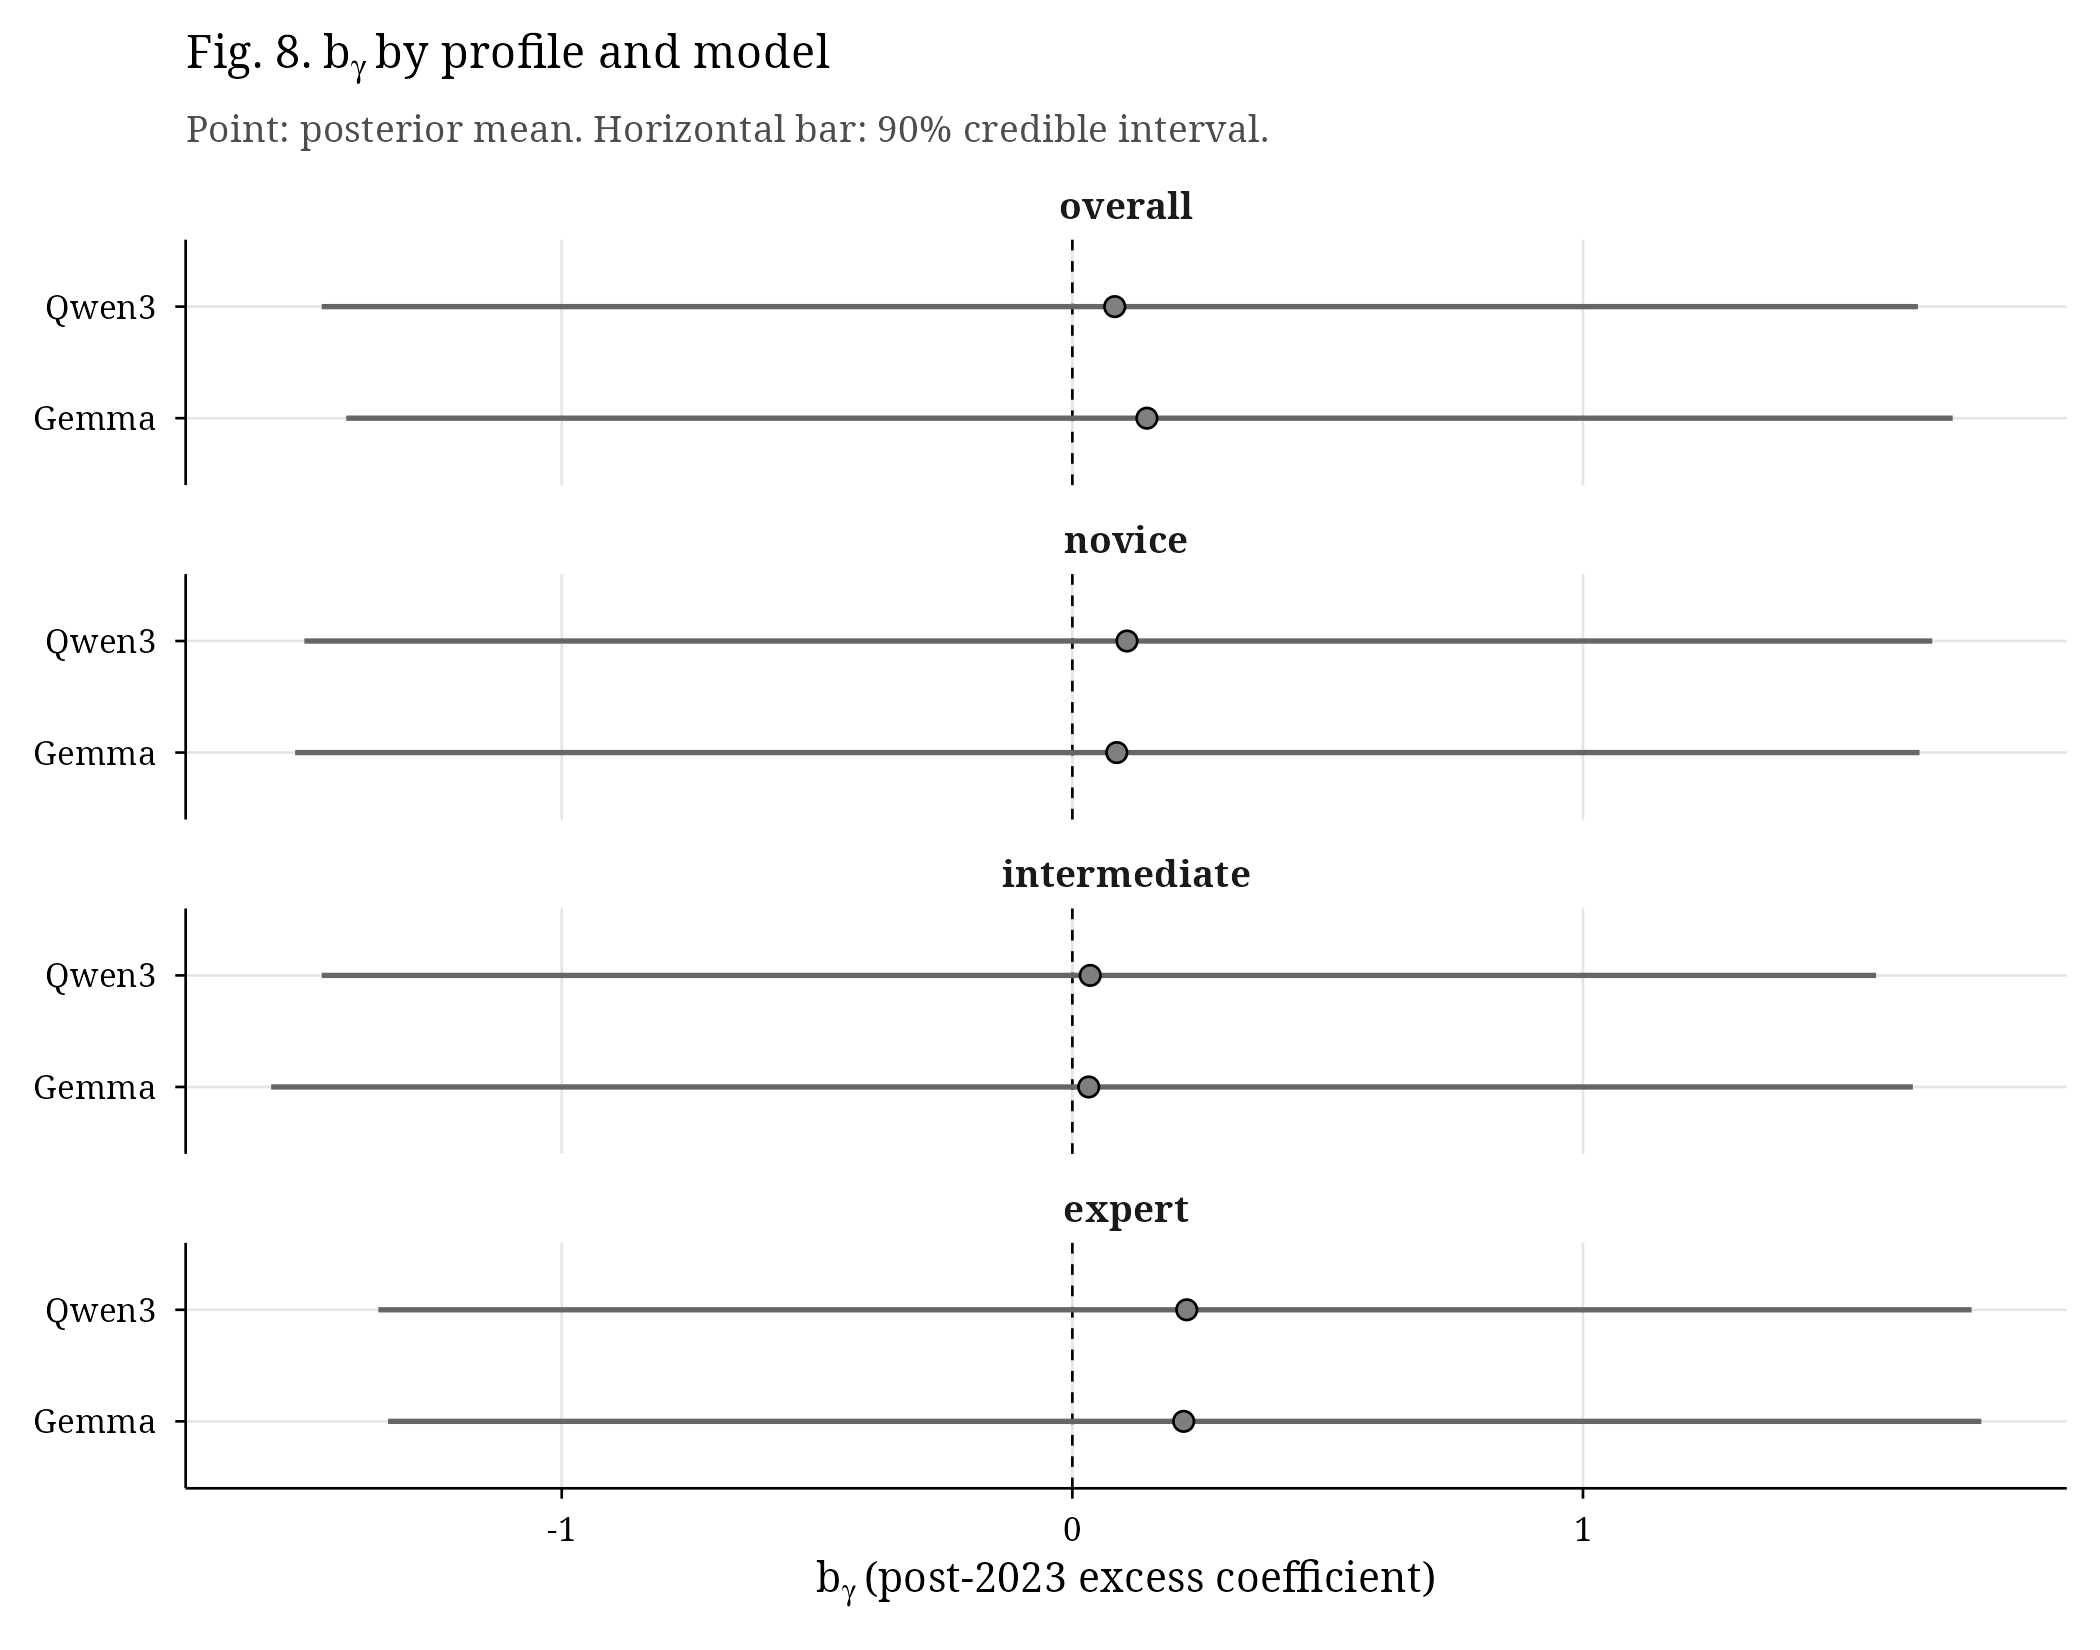
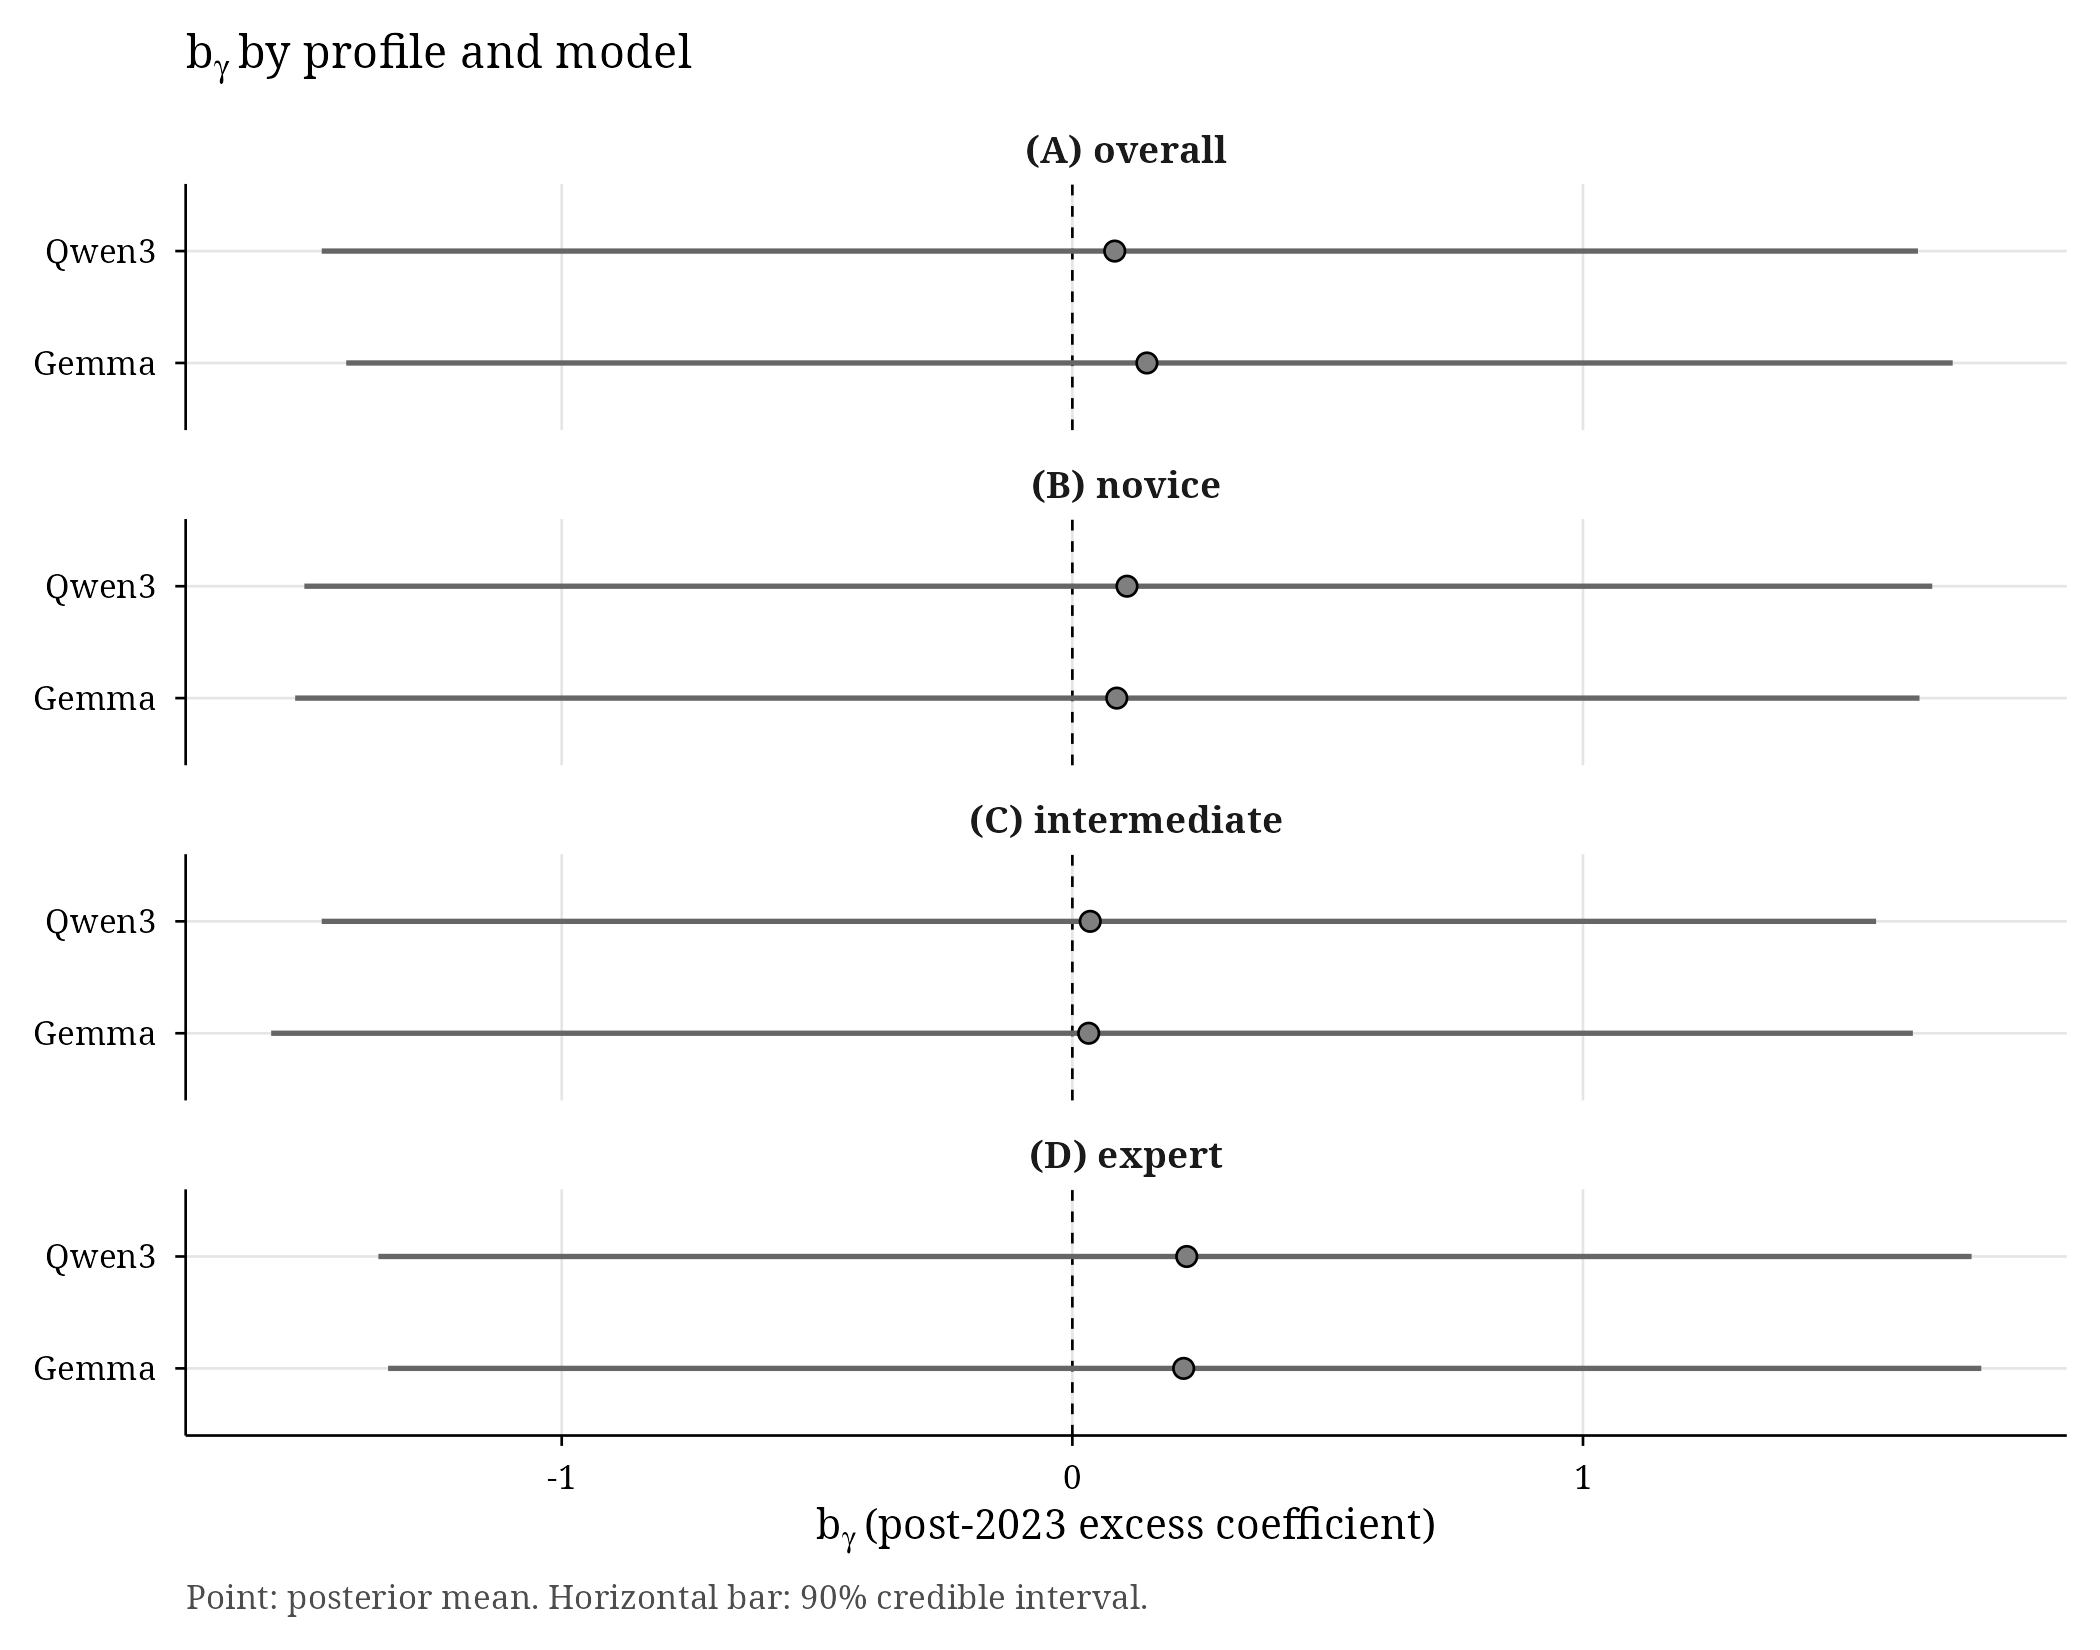
Figures for main text restructuring

diff --git a/docs/main_text_figures.md b/docs/main_text_figures.md
@@ -1,4 +1,4 @@
-# Main Text Figures — Proposed Selection and Order
+# Main Text Figures — Selection, Results, and Order
 
 Figures are listed in the order they would appear in the paper,
 following the structure: Methods (3.3) -> Results (4).
@@ -15,8 +15,12 @@ Generated by `R/09_main_text_figures.R` in greyscale academic style (300 DPI).
 ribbons give the reader an immediate visual sense of which methods are growing,
 declining, or stable before any model results are introduced.
 
-**Why main text:** Orients the reader to the data before showing model output.
-Essential for building intuition about the scale and heterogeneity of the corpus.
+**Results:** Strong heterogeneity across the top 15 methods. Several methods show
+steep post-2020 growth (Feedforward and Recurrent Neural Networks, Automated
+Content Classification, K-Means Clustering), while others plateau or decline
+(Geometric Morphometrics, Multivariate Statistical Analysis). The dashed 2023
+boundary does not mark a visible inflection in the raw data — any post-LLM
+effect on the literature side is too subtle to detect without modelling.
 
 ![Fig. 1](../data/output/figures/main_text/fig1_raw_counts.png)
 
@@ -30,8 +34,11 @@ Essential for building intuition about the scale and heterogeneity of the corpus
 and sigma_gamma (post-LLM shift variation). sigma_gamma credibly above zero is
 the global-level answer to "did methods diverge unevenly after 2023?"
 
-**Why main text:** This is the single most important diagnostic for the paper's
-central empirical claim. It directly answers the question posed in Section 2.
+**Results:** sigma_beta = 0.288 [90% CI: 0.248, 0.330] — substantial heterogeneity
+in baseline growth rates across L3 methods. sigma_gamma = 0.110 [90% CI: 0.010,
+0.222] — the entire posterior mass lies above zero, confirming that
+post-2023 shifts are unevenly distributed across methods. The effect is roughly
+one-third the magnitude of baseline trend variation.
 
 ![Fig. 2](../data/output/figures/main_text/fig2_sigma_posteriors.png)
 
@@ -43,12 +50,14 @@ central empirical claim. It directly answers the question posed in Section 2.
 
 **What it shows:** Horizontal bar chart comparing method shares across the 24 L2
 categories for three sources: pre-2023 literature, post-2023 literature, and
-LLM recommendations (Qwen3). Immediately shows which domains LLMs over- and
-under-represent relative to the published record.
+LLM recommendations (Qwen3).
 
-**Why main text:** Bridges the two streams (bibliometric and experiment). Gives
-the reader a concrete, intuitive picture of the LLM recommendation profile
-before the formal tests.
+**Results:** LLM recommendations dramatically over-represent a handful of L2
+categories (notably Network Analysis, Discrete and Agent-Based Simulation,
+Machine Learning Methods) and under-represent the long tail of specialist
+techniques (Isotope Analysis, Archaeobotany, Faunal Analysis). The literature
+distribution is far more even. Post-2023 literature shares are close to
+pre-2023 shares for most categories.
 
 ![Fig. 3](../data/output/figures/main_text/fig3_l2_triple_bar.png)
 
@@ -59,12 +68,14 @@ before the formal tests.
 **Section:** Results (experiment descriptive, 4.2)
 
 **What it shows:** The 20 most-recommended L3 methods by Qwen3, with bars shaded
-by the sign of gamma (dark = gaining post-2023, light = declining). Lets the
-reader see at a glance whether the top recommendations skew toward post-2023
-gainers.
+by the sign of gamma (dark = gaining post-2023, light = declining). Annotated
+with the signed posterior mean gamma value.
 
-**Why main text:** Directly foreshadows the mean-collapse test. The shading pattern
-is the visual version of the hypothesis tested formally in Fig. 7.
+**Results:** The majority of the top 20 recommended methods have positive gamma
+(gaining post-2023), visually foreshadowing the mean-collapse hypothesis. The
+most-recommended methods (Network Analysis, Discrete and Agent-Based Simulation,
+NLP, Machine Learning) all show positive gamma, suggesting LLMs preferentially
+recommend methods that are on the rise in the literature.
 
 ![Fig. 4](../data/output/figures/main_text/fig4_top20_l3_gamma.png)
 
@@ -75,12 +86,15 @@ is the visual version of the hypothesis tested formally in Fig. 7.
 **Section:** Results (cross-model comparison, 4.2)
 
 **What it shows:** Union of each model's top 10 recommended L3 methods, compared
-as share of total recommendations. Shows structural overlap and divergences
-between two LLMs from different training corpora.
+as share of total recommendations.
 
-**Why main text:** The paper runs two LLMs specifically to distinguish structural
-patterns from model-specific artefacts. This figure is the visual evidence for
-that argument.
+**Results:** High structural agreement between the two LLMs. Network Analysis and
+Modeling dominates both (~10% share each). The rank ordering is largely preserved
+across architectures, though Gemma allocates slightly more to GIS Modeling and
+Multivariate Statistical & Machine Learning, while Qwen3 favours Discrete and
+Agent-Based Simulation more strongly. This convergence across independently
+trained models strengthens the claim that the recommendation patterns are
+structural, not model-specific artefacts.
 
 ![Fig. 5](../data/output/figures/main_text/fig5_top10_qwen_vs_gemma.png)
 
@@ -91,14 +105,17 @@ that argument.
 **Section:** Results (concentration analysis, 4.3 / 3.4.1)
 
 **What it shows:** Posterior distributions of the effective number of methods
-(inverse Simpson) for pre/post-2023 literature and each LLM x profile
-combination. Demonstrates that all LLM profiles are dramatically more
-concentrated than the literature, with the expected novice < intermediate <
-expert gradient.
+(inverse Simpson) for pre/post-2023 literature and each LLM x profile combination.
 
-**Why main text:** Core result for the concentration analysis (Section 3.4.1).
-The novice-to-expert gradient is a key prediction of the mean-collapse
-hypothesis.
+**Results:** Literature is far more diverse than any LLM configuration: post-2023
+literature median = 113.6 [90% CI: 110.5, 116.9], pre-2023 = 88.4 [85.4, 91.4].
+All LLM profiles are dramatically more concentrated: Qwen3 overall = 32.0
+[30.5, 33.4], Gemma overall = 29.2 [28.0, 30.4]. The expected expertise gradient
+is clearly visible: novice profiles (~21 effective methods) are the most
+concentrated, intermediate (~30) in the middle, and expert profiles the most
+diverse (Qwen3 expert = 60.9 [57.0, 64.9]; Gemma expert = 47.2 [43.7, 50.6]).
+Even the most diverse LLM configuration (Qwen3 expert) covers roughly half
+as many effective methods as the pre-2023 literature.
 
 ![Fig. 6](../data/output/figures/main_text/fig6_concentration_posteriors.png)
 
@@ -108,13 +125,17 @@ hypothesis.
 
 **Section:** Results (mean-collapse test, 4.4 / 3.4.2)
 
-**What it shows:** Posterior densities of b_pre (corpus prevalence effect) and
-b_gamma (post-2023 excess effect) for both Qwen3 and Gemma, overall (all
-profiles pooled). b_pre credibly positive = LLM echoes pre-2023 literature.
-b_gamma near zero = no additional mean-collapse signal beyond corpus echo.
+**What it shows:** (A) Posterior density of b_gamma (post-2023 excess effect) and
+(B) b_pre (corpus prevalence effect) for both Qwen3 and Gemma, overall (all
+profiles pooled).
 
-**Why main text:** This is the formal test of the mean-collapse hypothesis.
-The most important inferential figure in the paper.
+**Results:** b_pre is credibly positive for both models: Qwen3 = 0.658
+[90% CI: 0.504, 0.803], Gemma = 0.580 [0.411, 0.754]. Methods that appear
+more often in the pre-2023 literature are recommended more often — LLMs echo
+the training corpus. b_gamma is centred near zero for both models: Qwen3 = 0.083
+[-1.470, 1.656], Gemma = 0.146 [-1.422, 1.724]. No additional mean-collapse
+signal beyond what the training-corpus echo already explains. The
+mean-collapse hypothesis is not supported beyond basic corpus prevalence.
 
 ![Fig. 7](../data/output/figures/main_text/fig7_bpre_bgamma_posteriors.png)
 
@@ -124,12 +145,17 @@ The most important inferential figure in the paper.
 
 **Section:** Results (mean-collapse test, profile gradient, 4.4)
 
-**What it shows:** b_gamma posteriors broken out by profile (novice, intermediate,
-expert) and model. Tests the prediction that the mean-collapse signal should be
-strongest for the novice profile and weakest for the expert profile.
+**What it shows:** b_gamma posteriors broken out by (A) overall, (B) novice,
+(C) intermediate, and (D) expert profiles for both Qwen3 and Gemma.
 
-**Why main text:** Completes the mean-collapse argument. The profile gradient is
-a pre-registered prediction of the hypothesis.
+**Results:** b_gamma remains centred near zero across all profile-model
+combinations: novice (Qwen3: 0.107; Gemma: 0.087), intermediate (Qwen3: 0.035;
+Gemma: 0.032), expert (Qwen3: 0.224; Gemma: 0.218). All 90% credible intervals
+comfortably span zero. The predicted novice > expert gradient in mean-collapse
+sensitivity is not observed — if anything, expert profiles show the largest
+(though still non-significant) b_gamma point estimates, contrary to hypothesis.
+The consistency across profiles and architectures reinforces that the null
+finding on b_gamma is robust rather than a power artefact.
 
 ![Fig. 8](../data/output/figures/main_text/fig8_bgamma_by_profile.png)
 
